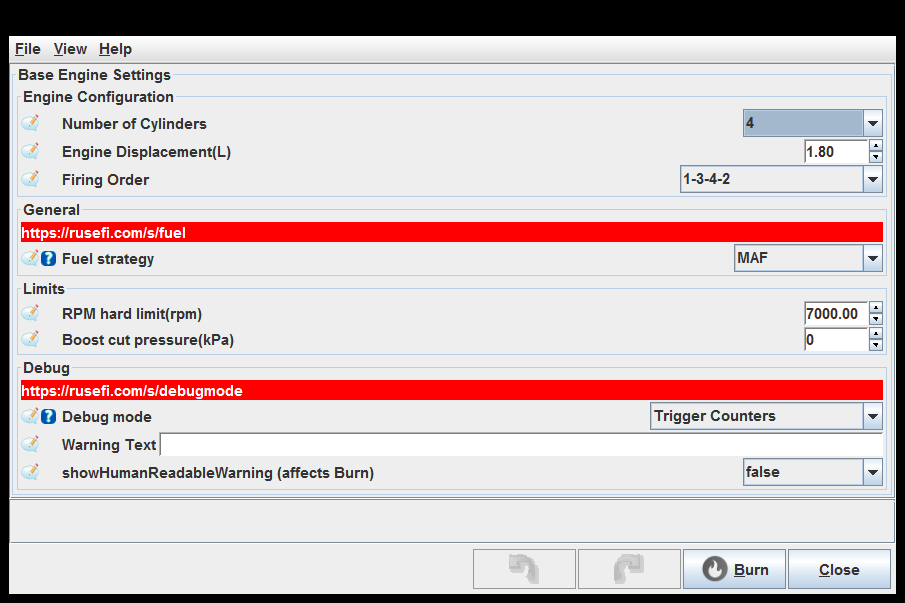
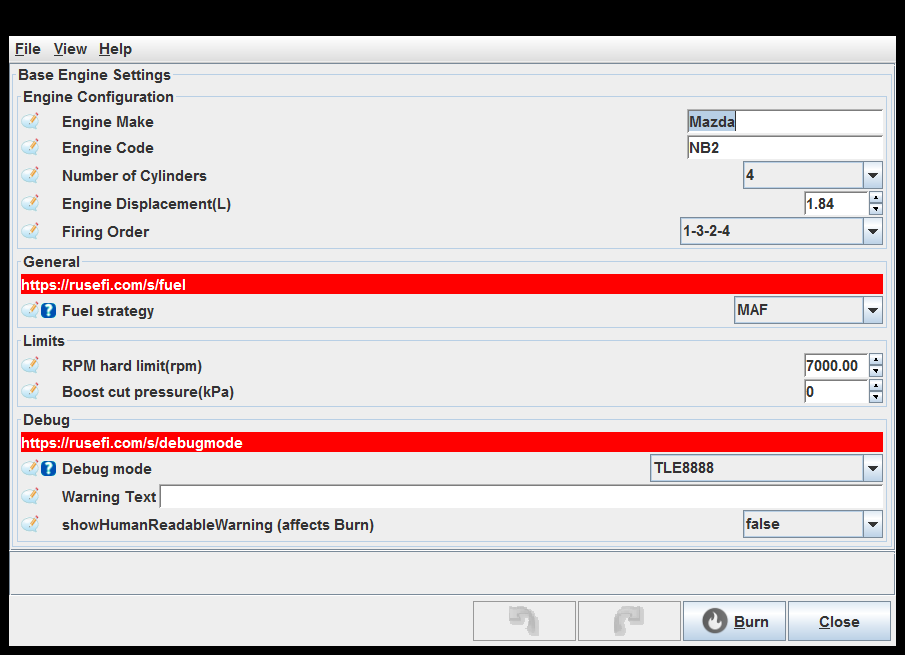
online

Changed region(s): [[0.0, 0.0299, 0.9901, 0.8657], [0.0309, 0.8955, 0.9901, 1.0]]

diff --git a/Online.md b/Online.md
@@ -1,0 +1,19 @@
+
+# rusEFI Online
+
+rusEFI online is facilitating data flow within rusEfi open source engine management community.
+
+- share your tune
+- checkout other's tunes
+
+
+# HOWTO
+
+We are only starting so some usability would be less than perfect in the beginning. Please stay tuned!
+
+In order to be able to post your tune you would need to to have your Engine Make and Engine Code fields filled in.
+
+![x](overview/TS_generated/dialog_Base_Engine_Settings.png)
+
+
+
